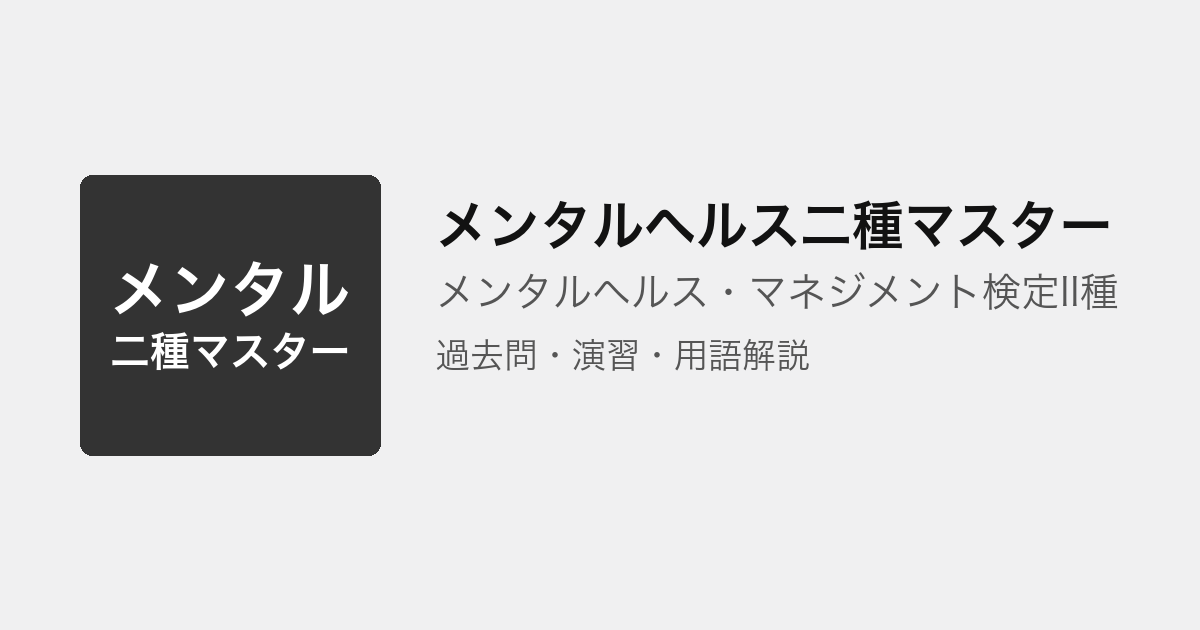
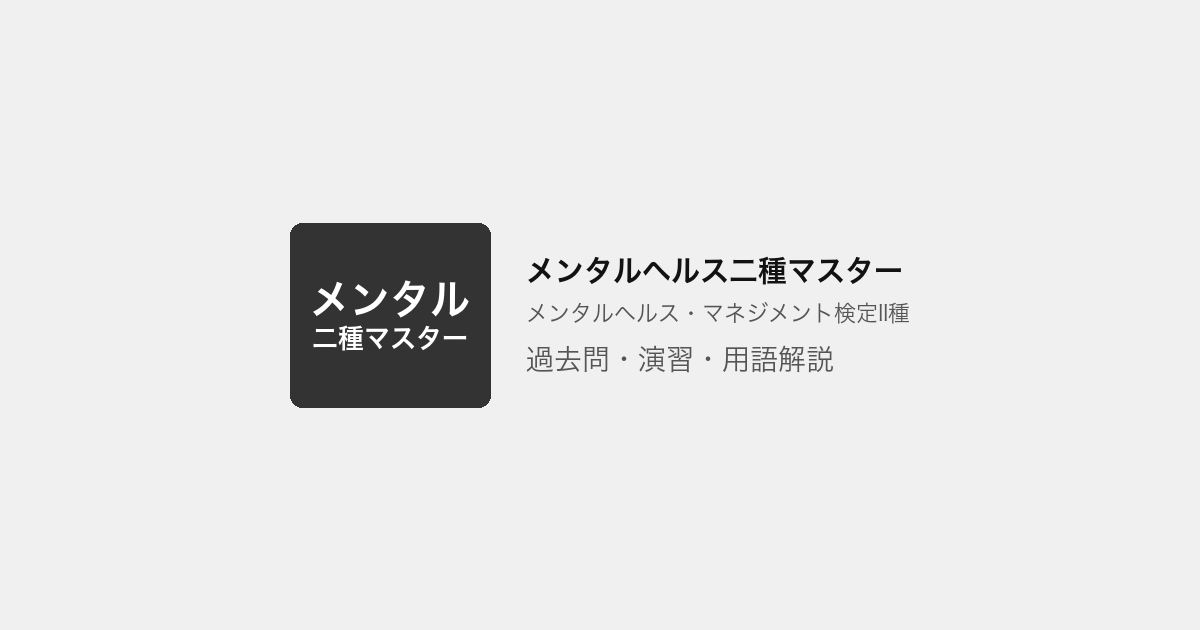
fix: OGP 画像の見切れを修正（中央安全域レイアウト）
SNS プレビューの 1:1 クロップでもロゴが切れないよう再生成した。

Changed region(s): [[0.0617, 0.2714, 0.925, 0.7238]]

diff --git a/tools/brand_assets.py b/tools/brand_assets.py
@@ -18,10 +18,38 @@ from tools.site_config import (
     theme,
 )
 
-FONT_BOLD = "/System/Library/Fonts/ヒラギノ角ゴシック W6.ttc"
-FONT_REG = "/System/Library/Fonts/ヒラギノ角ゴシック W3.ttc"
 BRAND_DIR = "assets/brand"
 MARKER = "<!--BRAND_ASSET_HEAD-->"
+OG_WIDTH = 1200
+OG_HEIGHT = 630
+# SNS の 1:1 中央クロップ（630×630）でも切れないよう、コンテンツ幅をこの範囲に収める
+OG_SAFE_WIDTH = 620
+
+
+def _font_candidates(*, bold: bool) -> list[Path]:
+    if bold:
+        return [
+            Path("/System/Library/Fonts/ヒラギノ角ゴシック W6.ttc"),
+            Path("/usr/share/fonts/opentype/noto/NotoSansCJK-Bold.ttc"),
+            Path("/usr/share/fonts/truetype/noto/NotoSansCJK-Bold.ttc"),
+            Path("/usr/share/fonts/truetype/dejavu/DejaVuSans-Bold.ttf"),
+            Path("/usr/share/fonts/truetype/liberation/LiberationSans-Bold.ttf"),
+        ]
+    return [
+        Path("/System/Library/Fonts/ヒラギノ角ゴシック W3.ttc"),
+        Path("/usr/share/fonts/opentype/noto/NotoSansCJK-Regular.ttc"),
+        Path("/usr/share/fonts/truetype/noto/NotoSansCJK-Regular.ttc"),
+        Path("/usr/share/fonts/truetype/dejavu/DejaVuSans.ttf"),
+        Path("/usr/share/fonts/truetype/liberation/LiberationSans-Regular.ttf"),
+    ]
+
+
+def _resolve_font_path(*, bold: bool) -> str:
+    for path in _font_candidates(bold=bold):
+        if path.is_file():
+            return str(path)
+    kind = "bold" if bold else "regular"
+    raise FileNotFoundError(f"No {kind} font found for brand asset generation")
 
 
 def theme_ink() -> str:
@@ -57,7 +85,7 @@ def assets_ready(site_root: Path | None = None) -> bool:
 def _fit_font(draw, text: str, max_w: int, start_size: int, *, bold: bool = True):
     from PIL import ImageFont
 
-    path = FONT_BOLD if bold else FONT_REG
+    path = _resolve_font_path(bold=bold)
     size = start_size
     while size >= 6:
         font = ImageFont.truetype(path, size, index=0)
@@ -148,42 +176,130 @@ def render_favicon(size: int):
 def render_og_image():
     from PIL import Image, ImageDraw
 
-    w, h = 1200, 630
+    w, h = OG_WIDTH, OG_HEIGHT
     top, bottom = brand_logo_lines()
     name = brand_name()
     exam = exam_name()
+    tagline = "過去問・演習・用語解説"
     bg = theme_page_bg()
     ink = theme_ink()
-    text = theme_text()
+    text_col = theme_text()
     muted = theme_text_muted()
+
+    measure = Image.new("RGB", (w, h), bg)
+    mdraw = ImageDraw.Draw(measure)
+
+    gap = 36
+    name_gap, exam_gap = 16, 22
+    layout = None
+    for box_w in (200, 180, 160, 140, 120):
+        box_h = max(110, int(box_w * 0.92))
+        text_max_w = OG_SAFE_WIDTH - box_w - gap
+        name_font, name_size = _fit_font(mdraw, name, text_max_w, 48, bold=True)
+        exam_font, exam_size = _fit_font(mdraw, exam, text_max_w, 30, bold=False)
+        tag_font, tag_size = _fit_font(mdraw, tagline, text_max_w, 28, bold=False)
+        text_w = max(
+            mdraw.textlength(name, font=name_font),
+            mdraw.textlength(exam, font=exam_font),
+            mdraw.textlength(tagline, font=tag_font),
+        )
+        text_h = name_size + name_gap + exam_size + exam_gap + tag_size
+        content_w = box_w + gap + int(text_w)
+        content_h = max(box_h, text_h)
+        if content_w <= OG_SAFE_WIDTH:
+            layout = {
+                "box_w": box_w,
+                "box_h": box_h,
+                "gap": gap,
+                "name_font": name_font,
+                "name_size": name_size,
+                "exam_font": exam_font,
+                "exam_size": exam_size,
+                "tag_font": tag_font,
+                "tag_size": tag_size,
+                "text_h": text_h,
+                "content_w": content_w,
+                "content_h": content_h,
+            }
+            break
 
     img = Image.new("RGB", (w, h), bg)
     draw = ImageDraw.Draw(img)
 
-    box_w, box_h = 300, 280
-    box_x, box_y = 80, (h - box_h) // 2
+    if layout is None:
+        # 横並びが収まらない場合: ロゴ＋テキストを縦積みで中央配置
+        mark_w, mark_h = 220, 200
+        text_max_w = OG_SAFE_WIDTH - 40
+        name_font, name_size = _fit_font(mdraw, name, text_max_w, 44, bold=True)
+        exam_font, exam_size = _fit_font(mdraw, exam, text_max_w, 28, bold=False)
+        tag_font, tag_size = _fit_font(mdraw, tagline, text_max_w, 26, bold=False)
+        stack_gap, line_gap = 28, 14
+        content_w = int(
+            max(
+                mark_w,
+                mdraw.textlength(name, font=name_font),
+                mdraw.textlength(exam, font=exam_font),
+                mdraw.textlength(tagline, font=tag_font),
+            )
+        )
+        content_h = mark_h + stack_gap + name_size + line_gap + exam_size + line_gap + tag_size
+        block_x = (w - content_w) // 2
+        block_y = (h - content_h) // 2
+        _draw_logo_mark(
+            draw,
+            x=block_x + (content_w - mark_w) // 2,
+            y=block_y,
+            width=mark_w,
+            height=mark_h,
+            top=top,
+            bottom=bottom,
+            bg=ink,
+            fg="#ffffff",
+            radius=12,
+        )
+        ty = block_y + mark_h + stack_gap
+        draw.text((block_x + (content_w - mdraw.textlength(name, font=name_font)) / 2, ty), name, fill=text_col, font=name_font)
+        ty += name_size + line_gap
+        draw.text((block_x + (content_w - mdraw.textlength(exam, font=exam_font)) / 2, ty), exam, fill=muted, font=exam_font)
+        ty += exam_size + line_gap
+        draw.text((block_x + (content_w - mdraw.textlength(tagline, font=tag_font)) / 2, ty), tagline, fill=muted, font=tag_font)
+        return img
+
+    block_x = (w - layout["content_w"]) // 2
+    block_y = (h - layout["content_h"]) // 2
+    box_x = block_x
+    box_y = block_y + (layout["content_h"] - layout["box_h"]) // 2
+    tx = block_x + layout["box_w"] + layout["gap"]
+    ty = block_y + (layout["content_h"] - layout["text_h"]) // 2
+
     _draw_logo_mark(
         draw,
         x=box_x,
         y=box_y,
-        width=box_w,
-        height=box_h,
+        width=layout["box_w"],
+        height=layout["box_h"],
         top=top,
         bottom=bottom,
         bg=ink,
         fg="#ffffff",
         radius=12,
     )
-
-    tx = box_x + box_w + 56
-    name_font, name_size = _fit_font(draw, name, w - tx - 80, 64, bold=True)
-    exam_font, exam_size = _fit_font(draw, exam, w - tx - 80, 40, bold=False)
-    tagline = "過去問・演習・用語解説"
-    tag_font, _ = _fit_font(draw, tagline, w - tx - 80, 34, bold=False)
-
-    draw.text((tx, box_y + 24), name, fill=text, font=name_font)
-    draw.text((tx, box_y + 24 + name_size + 20), exam, fill=muted, font=exam_font)
-    draw.text((tx, box_y + 24 + name_size + 20 + exam_size + 28), tagline, fill=muted, font=tag_font)
+    draw.text((tx, ty), name, fill=text_col, font=layout["name_font"])
+    draw.text(
+        (tx, ty + layout["name_size"] + name_gap),
+        exam,
+        fill=muted,
+        font=layout["exam_font"],
+    )
+    draw.text(
+        (
+            tx,
+            ty + layout["name_size"] + name_gap + layout["exam_size"] + exam_gap,
+        ),
+        tagline,
+        fill=muted,
+        font=layout["tag_font"],
+    )
     return img
 
 

diff --git a/tools/generate_brand_assets.py b/tools/generate_brand_assets.py
@@ -12,17 +12,23 @@ SHELL = Path(__file__).resolve().parents[1]
 if str(SHELL) not in sys.path:
     sys.path.insert(0, str(SHELL))
 
-from tools.brand_assets import write_brand_assets  # noqa: E402
+from tools.brand_assets import assets_ready, write_brand_assets  # noqa: E402
 
 
 def main() -> int:
     parser = argparse.ArgumentParser(description="ファビコン・OGP 画像を生成")
     parser.add_argument("--target", type=Path, default=Path.cwd(), help="サイトルート")
+    parser.add_argument("--force", action="store_true", help="既存 PNG があっても再生成する")
     args = parser.parse_args()
     target = args.target.resolve()
     if not (target / "site-config.json").is_file():
         print(f"site-config.json not found: {target}", file=sys.stderr)
         return 1
+    if assets_ready(target) and not args.force:
+        out = target / "assets" / "brand"
+        files = sorted(p.name for p in out.iterdir() if p.is_file())
+        print(f"Brand assets already exist in {out}: {', '.join(files)}; skip")
+        return 0
     out = write_brand_assets(target)
     files = sorted(p.name for p in out.iterdir() if p.is_file())
     print(f"Wrote {len(files)} files to {out}: {', '.join(files)}")
